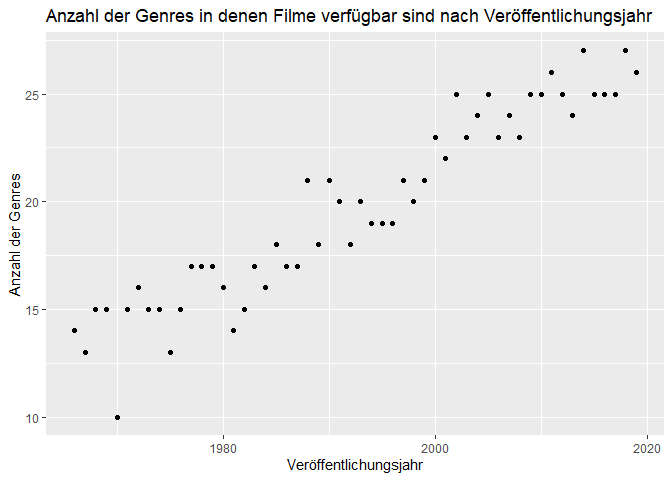
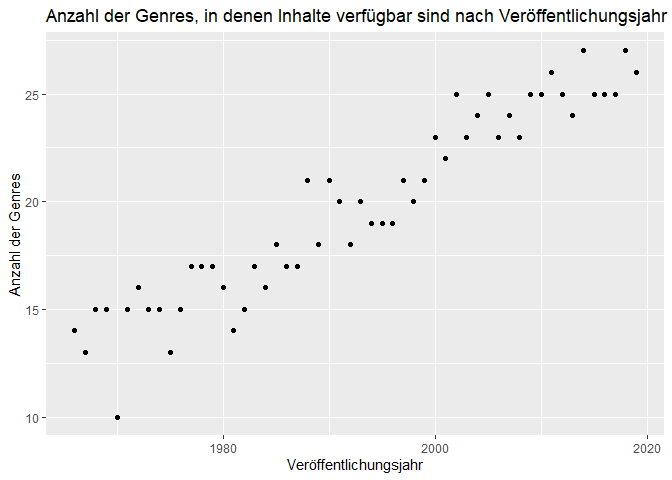
Filme zu Inhalte geändert

Changed region(s): [[0.2812, 0.0, 1.0, 0.0625]]

diff --git a/Bericht_Henke_Keil_Reichmann.md b/Bericht_Henke_Keil_Reichmann.md
@@ -58,7 +58,7 @@ Dadurch ist die Auswahl, welche Inhalte auf Netflix verfügbar sind und
 wie diese im Zusammenhang mit Genre, Erscheinungsjahr und weiteren
 Charakteristika zusammengestellt sind, um einiges spannender.
 Insbesondere erweist der Vergleich von älteren und neueren Inhalten
-spannend. Deshalb wollen wir in diesem Bericht der Frage nachgehen: *wie
+spannend. Deshalb wollen wir in diesem Bericht der Frage nachgehen: *Wie
 verhalten sich die Inhalte auf Netflix bezüglich ihres
 Erscheinungsjahr?*
 
@@ -71,16 +71,24 @@ Quellen zusammengetragen. Zudem hat er eine eigene Metrik, den “Hidden
 Gem Score”, hinzugefügt, der aus den Daten Geheimtipps ermitteln soll.
 Diesen haben wir aber für unsere Betrachtungen nicht beachtet.
 
-Aufgrund der Heterogenität der Daten sind manche Variablen
-vertrauenswürdiger als andere. Zum Teil scheinen die Sprachen nicht
-akurat zu sein, auch Sprachen wie “Latin” werden genannt, die wir in
-keinem Film auf Netflix finden konnten. Wir vermuten Übersetzungsfehler,
-können aber den Fehlerursprung nicht eindeutig ermitteln. Zum Teil sind
-auch bei Zusammenfügen der Daten aus verschiedenen Quellen Fehler
-aufgetreten. So ist vermutlich bei der Serie “Barberen??????” die
-Netflix-Serie deutscher Herkunft mit dem iMDB-Eintrag tschechischen Film
-???? aus 20?? verbunden wurden. Die Daten sind zum Teil von der Serie,
-zum Teil vom Film.
+Im Datensatz finden sich 29 Variablen pro Film, die vom Titel über
+verschiedene Genre-Variablen bis hin zu Regisseur und Schauspieler
+reichen. Ebenfalls verfügbar ist die Länge des Filmes, verschiedene
+Bewertungsmetriken (von IMDb, Rotten Tomatoes, Metacritic) und weitere
+Kenngrößen, mit denen wir uns nicht weiter befasst haben. Im folgenden
+haben wir uns vor allem auf das Veröffentlichungsjahr, das Genre und der
+Länderverfügbarkeit.
+
+Da die Daten aus unterschidlichen Quellen kommen und somit sehr
+heterogen sind, sind manche Variablen vertrauenswürdiger als andere. Zum
+Teil scheinen die Sprachen nicht akurat zu sein, auch Sprachen wie
+“Latin” werden genannt, die wir in keinem Film auf Netflix finden
+konnten. Wir vermuten Übersetzungsfehler, können aber den Fehlerursprung
+nicht eindeutig ermitteln. Zum Teil sind auch bei Zusammenfügen der
+Daten aus verschiedenen Quellen Fehler aufgetreten. So ist vermutlich
+bei der Serie “Barberen??????” die Netflix-Serie deutscher Herkunft mit
+dem iMDB-Eintrag tschechischen Film ???? aus 20?? verbunden wurden. Die
+Daten sind zum Teil von der Serie, zum Teil vom Film.
 
 Da dies aber (nach unserem Wissen) Einzelfälle sind und es zu diesem
 Thema kaum bis keine besseren Daten gibt, haben wir trotz dieser
@@ -109,9 +117,9 @@ Zunächst schauen wir uns ein paar allgemeine Zahlen zu unserem
 
 Wir beobachten zum einen, dass nur noch Werte von 1961 bis 2019 im
 Datensatz sind (wie oben begründet) und zum anderen, dass sehr viele
-Filme aus den letzten Jahren stammen, allein 25% aus den Jahren 2017 bis
-2019. Diese Beobachtung sieht man auch, wenn man die Zahl der Filme in
-dem jeweiligen Veröffentlichungsjahr darstellt. Da der Zusammenhang
+Inhalte aus den letzten Jahren stammen, allein 25% aus den Jahren 2017
+bis 2019. Diese Beobachtung sieht man auch, wenn man die Zahl der Filme
+in dem jeweiligen Veröffentlichungsjahr darstellt. Da der Zusammenhang
 annährend exponentiell ist, ist die Anzahl im Plot mit einer
 logarithmischen Skala versehen.
 ![](Bericht_Henke_Keil_Reichmann_files/figure-gfm/unnamed-chunk-5-1.png)<!-- -->
@@ -128,11 +136,11 @@ Filme und Serien es jeweils in den Ländern gibt.
 
 Man sieht, dass es starke Unterschiede zwischen den einzelnen Ländern
 gibt und dass keine Gruppenbildung in z.B. Länder mit sehr viel und
-Ländern mit weniger Filmtiteln zu erkennen ist.
+Ländern mit weniger Medien zu erkennen ist.
 
-Eine naheliegende Folgerung wäre, dass die Auswahl an Filmen in vielen
-Ländern ähnlich ist. Das würde bedeuten, dass die meisten Filme in fast
-allen Ländern verfügbar sind. Dem ist aber nicht so:
+Eine naheliegende Folgerung wäre, dass die Auswahl an Filmen und Serien
+in vielen Ländern ähnlich ist. Das würde bedeuten, dass die meisten
+Inhalte in fast allen Ländern verfügbar sind. Dem ist aber nicht so:
 ![](Bericht_Henke_Keil_Reichmann_files/figure-gfm/unnamed-chunk-8-1.png)<!-- -->
 Tatsächlich ist ein Großteil der Medien nur in einem einzigen Land
 abrufbar, das Angebot von netflix scheint also recht speziell auf
@@ -147,11 +155,11 @@ Eigenproduktionen. Führt das auf lange Sicht auf ein einheitlicheres
 Netflix, das weniger regionale Unterschiede hat? Sind die neusten
 Veröffentlichungen auf Netflix in mehr Ländern verfügbar?
 
-Zunächst schauen wir uns die Film basierend auf ihr ursprüngliches
-Veröffentlichungsjahr an, wobei wir ähnlich wie oben nur Filme zwischen
-1960 und 2021 betrachten. Hier sehen wir eine interessante Kurve,
-insbesondere wenn wir die in R eingebaute, automatische Glättungskurve
-einbauen.
+Zunächst schauen wir uns die Inhalte basierend auf ihr ursprüngliches
+Veröffentlichungsjahr an, wobei wir ähnlich wie oben nur Filme und
+Serien zwischen 1960 und 2021 betrachten. Hier sehen wir eine
+interessante Kurve, insbesondere wenn wir die in R eingebaute,
+automatische Glättungskurve einbauen.
 
 ![](Bericht_Henke_Keil_Reichmann_files/figure-gfm/unnamed-chunk-9-1.png)<!-- -->
 
@@ -169,20 +177,20 @@ Jahr erhalten wir einen annährend linearen Zusammenhang:
 
 ![](Bericht_Henke_Keil_Reichmann_files/figure-gfm/unnamed-chunk-12-1.png)<!-- -->
 
-Allerdings wird in unserem Datensatz ein Film i.d.R. mehreren Genres
-zugeordnet. Liegt der Zusammenhang also eventuell daran, dass neuere
-Filme einfach mehr unterschiedlichen Genres zugeordnet werden? Um das zu
-beantworten plotten wir die durchschnittliche Zahl der Genres denen ein
-Film in einem gegebenen Jahr zugeordnet wird:
+Allerdings wird in unserem Datensatz ein Film/einer Serie i.d.R.
+mehreren Genres zugeordnet. Liegt der Zusammenhang also eventuell daran,
+dass neuere Inhalte einfach mehr unterschiedlichen Genres zugeordnet
+werden? Um das zu beantworten plotten wir die durchschnittliche Zahl der
+Genres, denen ein Medium in einem gegebenen Jahr zugeordnet wird:
 
 ![](Bericht_Henke_Keil_Reichmann_files/figure-gfm/unnamed-chunk-13-1.png)<!-- -->
 
 Anhand des Plots lässt sich diese Vermutung widerlegen, denn die Zahl
 der Genres ist fast immer zwischen 2.5 und .5, lediglich vor 1980 sieht
 man etwas stärkere Schwankungen die vermutlich darauf zurückzuführen
-ist, dass in diesen Jahren die Zahl der Filme die verfügbar sind relativ
-klein ist. In den Filmen der letzten Jahre ist sogar eher ein
-Abwärtstrend erkennbar.
+ist, dass in diesen Jahren die Zahl der Filme und Serien, die verfügbar
+sind, relativ klein ist. In den Filmen der letzten Jahre ist sogar eher
+ein Abwärtstrend erkennbar.
 
 ## Literatur
 
